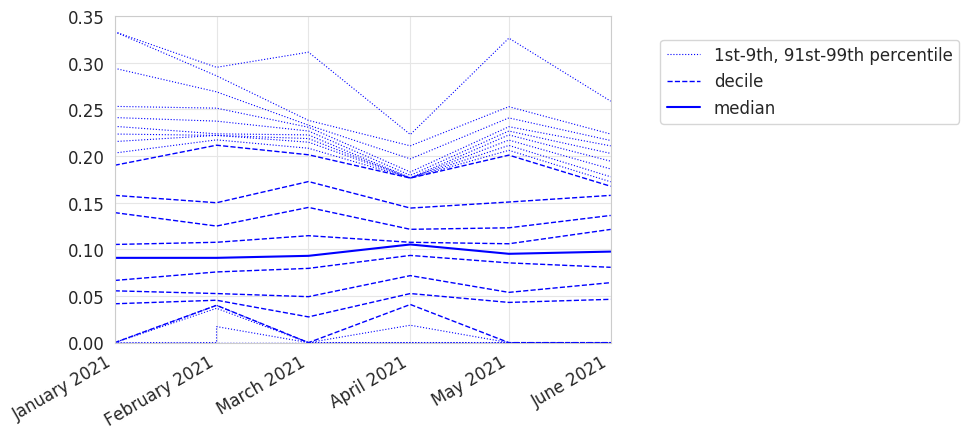
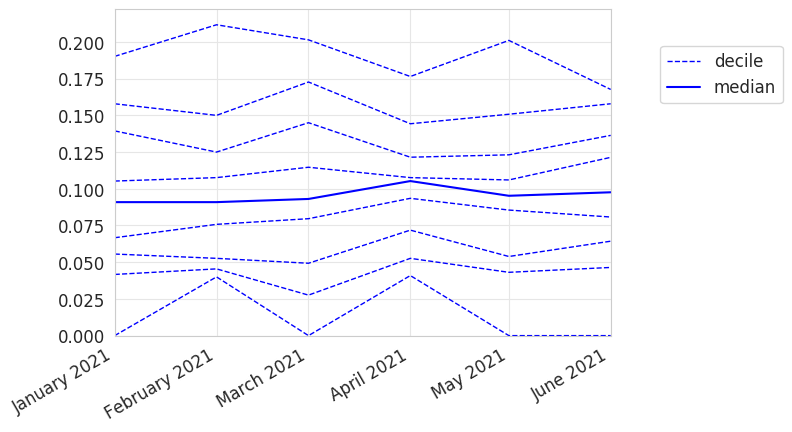
Expose `show_outer_percentiles` arg
To expose this arg, we add the mechanism for reading JSON-encoded
configuration, which we expect to be passed by job-runner. As such, we
don't check that the JSON is valid. However, we do check that the
configuration keys are correct, and report any incorrect configuration
keys (e.g. typos) to the user. We don't check the configuration values
are correct; doing so would require more complex code, which is probably
unnecessary.

We should still consider what we'd like the `config` key to look like.
However, we can iterate on that problem as we add more configuration.

Closes #21

diff --git a/analysis/deciles_charts.py b/analysis/deciles_charts.py
@@ -1,5 +1,6 @@
 import argparse
 import glob
+import json
 import logging
 import pathlib
 import re
@@ -8,6 +9,10 @@ import numpy
 import pandas
 from ebmdatalab import charts
 
+
+DEFAULT_CONFIG = {
+    "show_outer_percentiles": False,
+}
 
 MEASURE_FNAME_REGEX = re.compile(r"measure_(?P<id>\w+)\.csv")
 
@@ -51,8 +56,13 @@ def drop_zero_denominator_rows(measure_table):
     return measure_table[is_not_inf].reset_index(drop=True)
 
 
-def get_deciles_chart(measure_table):
-    return charts.deciles_chart(measure_table, period_column="date", column="value")
+def get_deciles_chart(measure_table, config):
+    return charts.deciles_chart(
+        measure_table,
+        period_column="date",
+        column="value",
+        show_outer_percentiles=config["show_outer_percentiles"],
+    )
 
 
 def write_deciles_chart(deciles_chart, path):
@@ -65,6 +75,17 @@ def get_path(*args):
 
 def match_paths(pattern):
     return [get_path(x) for x in glob.glob(pattern)]
+
+
+def parse_config(config_json):
+    user_config = json.loads(config_json)
+    config = DEFAULT_CONFIG.copy()
+    if invalid_keys := [k for k in user_config if k not in config]:
+        invalid_keys_str = ", ".join(invalid_keys)
+        raise RuntimeError(f"Invalid configuration: {invalid_keys_str}")
+
+    config.update(user_config)
+    return config
 
 
 def parse_args():
@@ -81,6 +102,12 @@ def parse_args():
         type=get_path,
         help="Path to the output directory",
     )
+    parser.add_argument(
+        "--config",
+        default=DEFAULT_CONFIG.copy(),
+        type=parse_config,
+        help="JSON-encoded configuration",
+    )
     return parser.parse_args()
 
 
@@ -88,10 +115,11 @@ def main():
     args = parse_args()
     input_files = args.input_files
     output_dir = args.output_dir
+    config = args.config
 
     for measure_table in get_measure_tables(input_files):
         measure_table = drop_zero_denominator_rows(measure_table)
-        chart = get_deciles_chart(measure_table)
+        chart = get_deciles_chart(measure_table, config)
         id_ = measure_table.attrs["id"]
         fname = f"deciles_chart_{id_}.png"
         write_deciles_chart(chart, output_dir / fname)

diff --git a/tests/test_deciles_charts.py b/tests/test_deciles_charts.py
@@ -1,5 +1,6 @@
 import numpy
 import pandas
+import pytest
 from pandas import testing
 
 from analysis import deciles_charts
@@ -75,7 +76,25 @@ def test_drop_zero_denominator_rows():
     assert obs_measure_table.attrs is not measure_table.attrs  # test it's a copy
 
 
-def test_parse_args(tmp_path, monkeypatch):
+def test_parse_config():
+    with pytest.raises(RuntimeError, match=r"bad_key, worse_key$"):
+        deciles_charts.parse_config('{"bad_key": "", "worse_key": ""}')
+
+
+@pytest.mark.parametrize(
+    "optional_arg,parsed_optional_arg",
+    [
+        (
+            (),
+            ("config", {"show_outer_percentiles": False}),  # default
+        ),
+        (
+            ("--config", '{"show_outer_percentiles": true}'),
+            ("config", {"show_outer_percentiles": True}),
+        ),
+    ],
+)
+def test_parse_args(tmp_path, monkeypatch, optional_arg, parsed_optional_arg):
     # arrange
     monkeypatch.chdir(tmp_path)
     monkeypatch.setattr(
@@ -86,7 +105,8 @@ def test_parse_args(tmp_path, monkeypatch):
             "input/measure_*.csv",
             "--output-dir",
             "output",
-        ],
+        ]
+        + list(optional_arg),
     )
 
     input_dir = tmp_path / "input"
@@ -115,3 +135,4 @@ def test_parse_args(tmp_path, monkeypatch):
     # assert
     assert sorted(args.input_files) == sorted(input_files)
     assert args.output_dir == output_dir
+    assert getattr(args, parsed_optional_arg[0]) == parsed_optional_arg[1]

diff --git a/README.md b/README.md
@@ -3,7 +3,6 @@
 deciles-charts generates a line chart for each [measure table][1] in an input directory.
 The line chart has time on the horizontal axis (`x`) and value on the vertical axis (`y`).
 Deciles are plotted as dashed lines;
-outer percentiles are plotted as dotted lines;
 the median is plotted as a solid line.
 For example, the following deciles chart was generated from dummy data:
 
@@ -67,6 +66,29 @@ generate_deciles_charts:
 For each measure table, there will now be a corresponding deciles chart.
 For example, given a measure table called `measure_has_sbp_event_by_stp_code.csv`,
 there will now be a corresponding deciles chart called `deciles_chart_has_sbp_event_by_stp_code.png`.
+
+## Configuration
+
+Pass configuration via the `config` property.
+For example:
+
+```yaml
+generate_deciles_charts:
+  run: >
+    deciles-charts:[version]
+      --input-files output/measure_*.csv
+      --output_dir output
+  config:
+    show_outer_percentiles: true
+  needs: [generate_measures]
+  outputs:
+    moderately_sensitive:
+      deciles_charts: output/deciles_chart_*.png
+```
+
+| Configuration            | Default | Description                                                 |
+| ------------------------ | ------- | ----------------------------------------------------------- |
+| `show_outer_percentiles` | `false` | Show the top and bottom percentiles, as well as the deciles |
 
 ## Notes for developers
 
